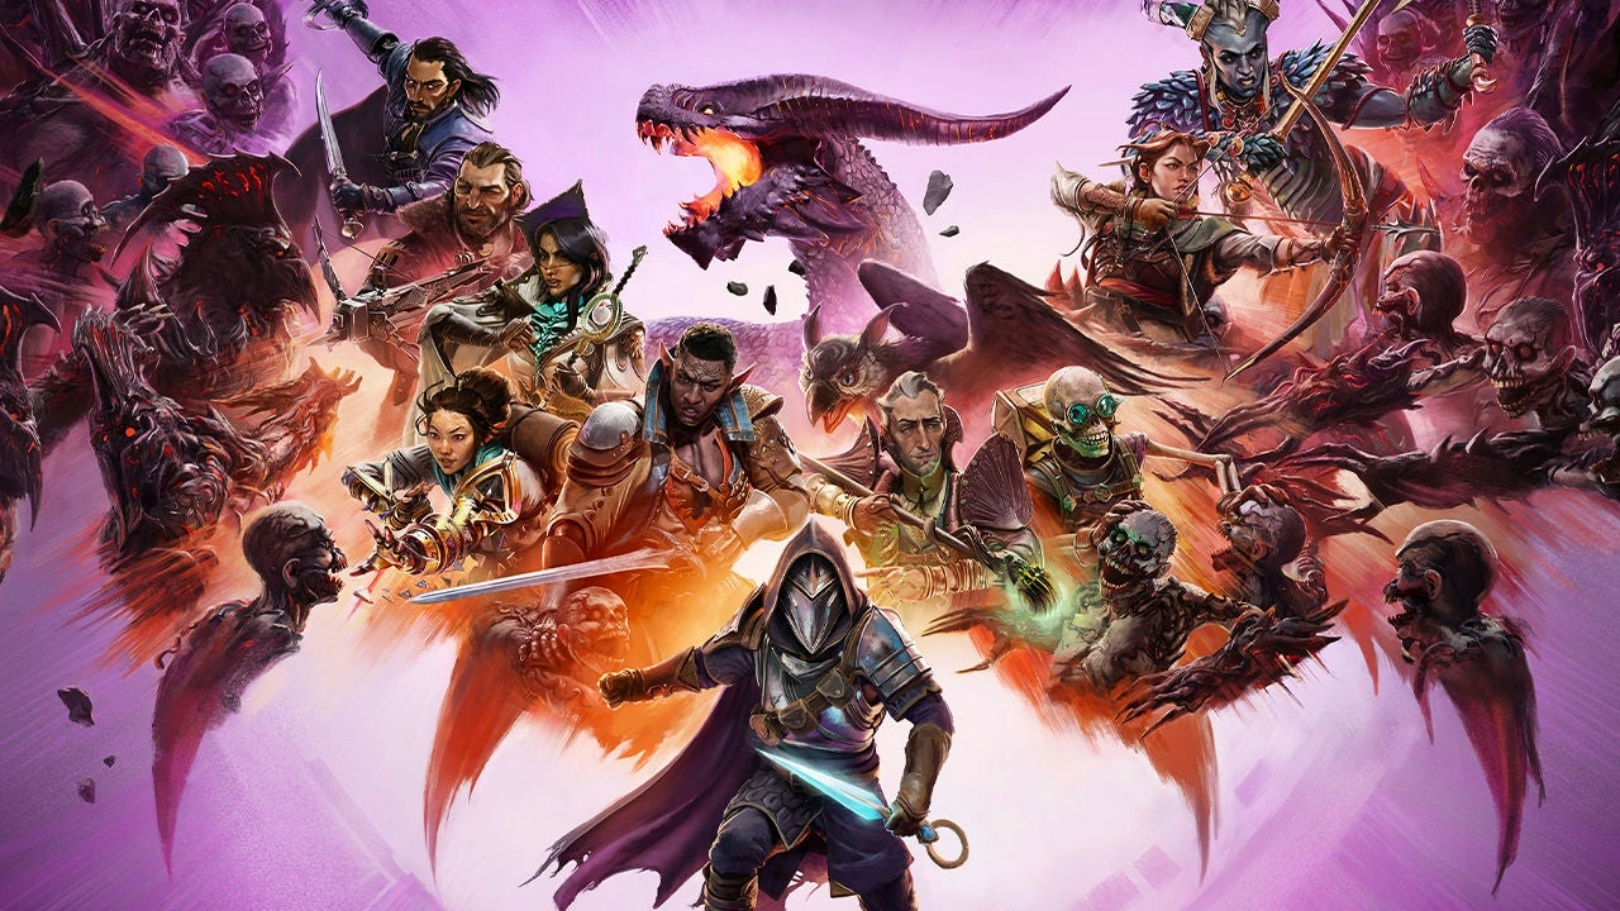
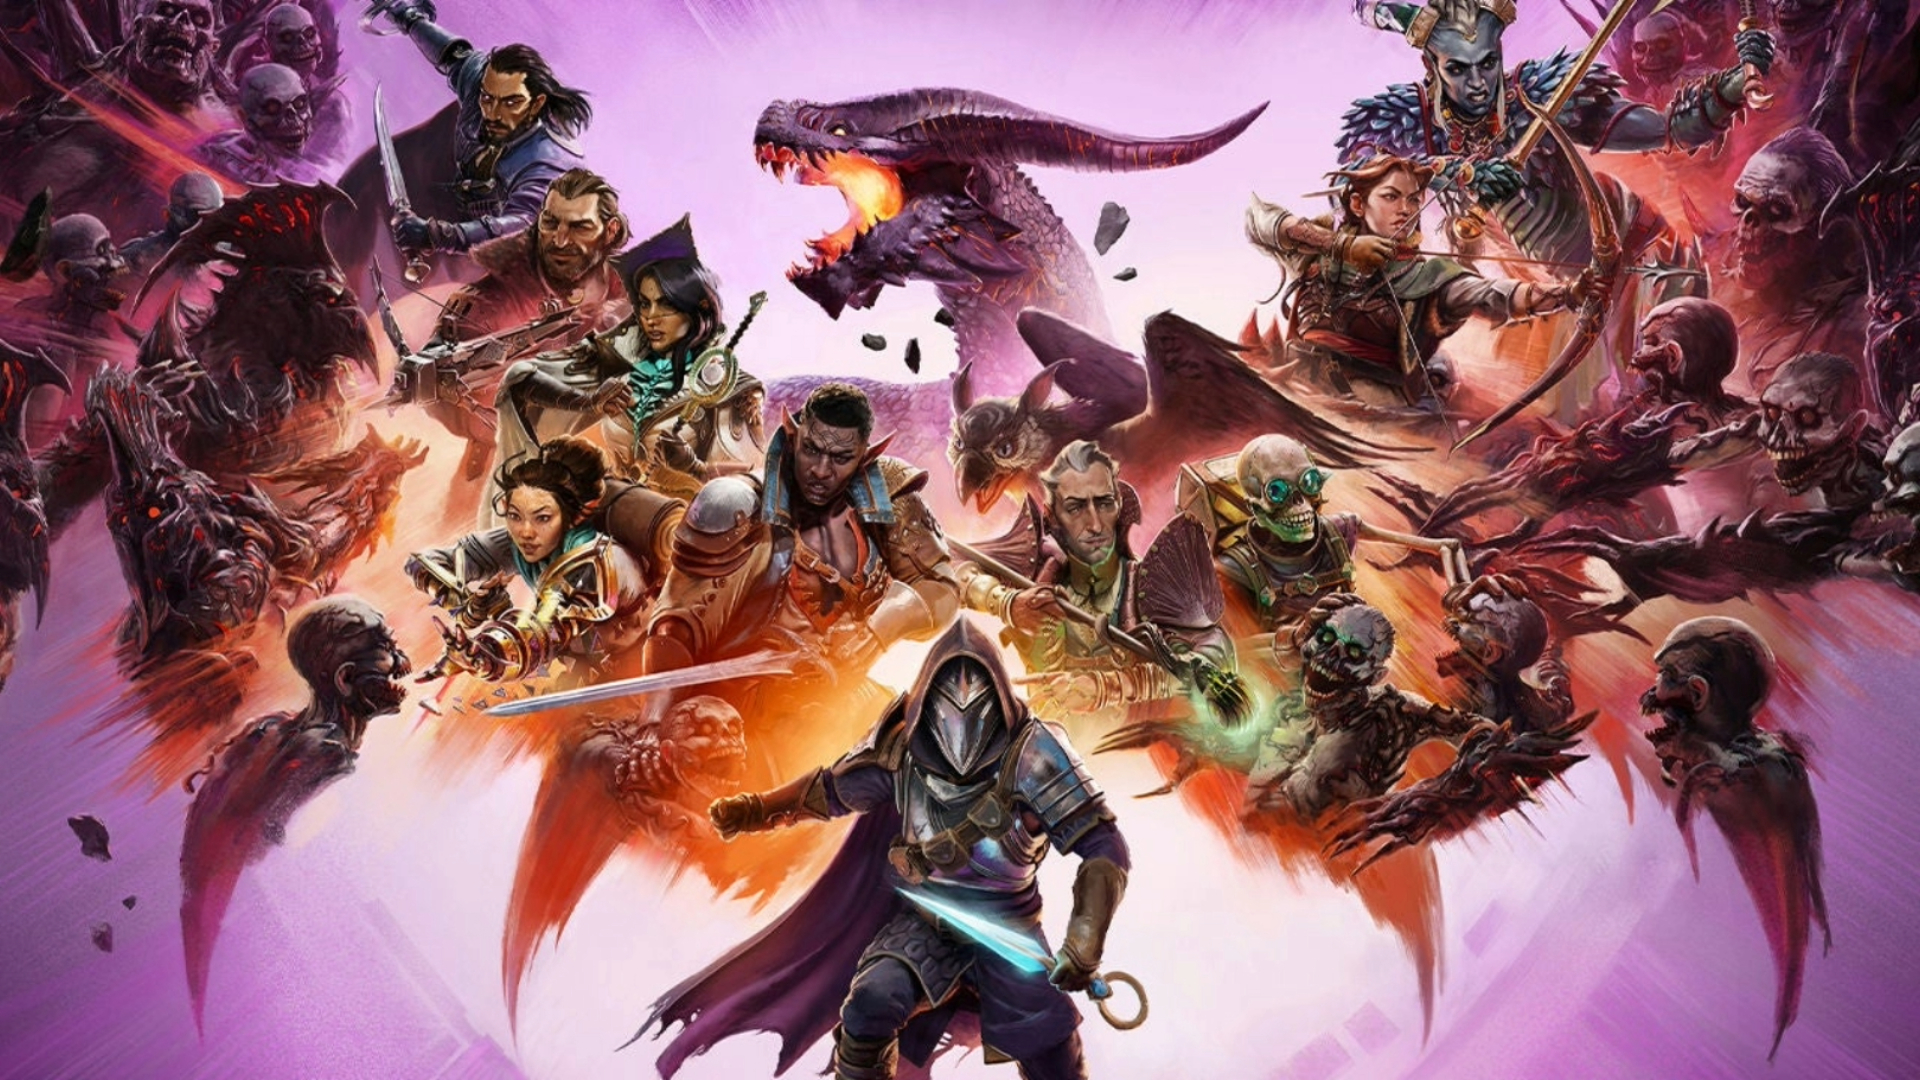
tweacked bg images and fonts

diff --git a/style.css b/style.css
@@ -2,10 +2,13 @@
   font-family: system-ui, -apple-system, BlinkMacSystemFont, "Segoe UI", Roboto,
     Oxygen, Ubuntu, Cantarell, "Open Sans", "Helvetica Neue", sans-serif;
 }
+body {
+  margin: 0px;
+}
 
 .feature {
   height: 100vh;
-  margin: 0px;
+
   background-size: cover;
   position: relative;
 }
@@ -18,4 +21,26 @@
 
 .tales {
   background-image: url("images/talesofarise.jpg");
+}
+img {
+  height: auto;
+  width: auto;
+}
+header {
+  position: fixed;
+  padding: auto;
+  background-color: #722f37;
+  display: flex;
+  flex-wrap: wrap;
+  justify-content: space-between;
+}
+h1 {
+  font-weight: 800;
+  font-size: large;
+  color: #bbb791;
+}
+nav {
+  font-weight: 400;
+  font-size: small;
+  color: #bbb791;
 }

diff --git a/index.html b/index.html
@@ -11,14 +11,22 @@
       <h1>Rpgden</h1>
       <nav>
         <a>home</a>
-        <a>Traisl </a>
+        <a>Trails </a>
         <a>dragonage</a>
       </nav>
     </header>
     <div class="feature trails"></div>
+    <div></div>
+    <div></div>
+    <div></div>
     <div class="feature dragonage"></div>
-
+    <div></div>
+    <div></div>
+    <div></div>
     <div class="feature tales"></div>
+    <div></div>
+    <div></div>
+    <div></div>
     <footer>Made By Angelo &copy; 2025</footer>
   </body>
 </html>
